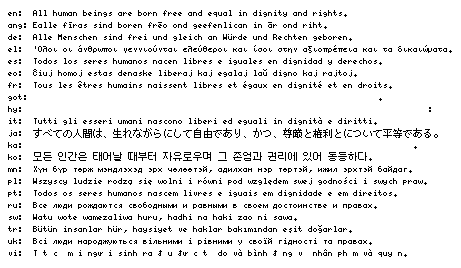
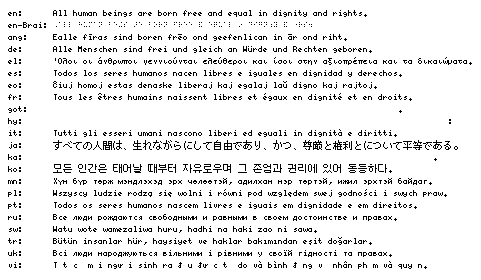
Update the examples

Changed region(s): [[0.0, 0.0299, 1.0, 0.9552], [0.9111, 0.4179, 0.9414, 0.4478]]

diff --git a/example/main.go b/example/main.go
@@ -41,27 +41,28 @@ var (
 func run() error {
 	// https://www.unicode.org/udhr/
 	// https://omniglot.com/udhr/
-	text := `en:  All human beings are born free and equal in dignity and rights.
-ang: Ealle fīras sind boren frēo ond geefenlican in ār ond riht.
-de:  Alle Menschen sind frei und gleich an Würde und Rechten geboren.
-el:  'Ολοι οι άνθρωποι γεννιούνται ελεύθεροι και ίσοι στην αξιοπρέπεια και τα δικαιώματα.
-es:  Todos los seres humanos nacen libres e iguales en dignidad y derechos.
-eo:  Ĉiuj homoj estas denaske liberaj kaj egalaj laŭ digno kaj rajtoj.
-fr:  Tous les êtres humains naissent libres et égaux en dignité et en droits.
-got: ᚨᛚᛚᚨᛁ ᛗᚨᚾᚾᚨ ᚠᚱᛖᛁᚺᚨᛚᛋ ᛃᚨᚺ ᛋᚨᛗᚨᛚᛖᛁᚲᛟ ᛁᚾ ᚹᚨᛁᚱᚦᛁᛞᚨᛁ ᛃᚨᚺ ᚱᚨᛁᚺᛏᛖᛁᛋ ᚹᚨᚢᚱᚦᚨᚾᛋ.
-hy:  Բոլոր մարդիկ ծնվում են ազատ ու հավասար՝ իրենց արժանապատվությամբ և իրավունքներով:
-it:  Tutti gli esseri umani nascono liberi ed eguali in dignità e diritti.
-ja:  すべての人間は、生れながらにして自由であり、かつ、尊厳と権利とについて平等である。
-ka:  ყველა ადამიანი იბადება თავისუფალი და თანასწორი თავისი ღირსებითა და უფლებებით.
-ko:  모든 인간은 태어날 때부터 자유로우며 그 존엄과 권리에 있어 동등하다.
-mn:  Хүн бүр төрж мэндлэхэд эрх чөлөөтэй, адилхан нэр төртэй, ижил эрхтэй байдаг.
-pl:  Wszyscy ludzie rodzą się wolni i równi pod względem swej godności i swych praw.
-pt:  Todos os seres humanos nascem livres e iguais em dignidade e em direitos.
-ru:  Все люди рождаются свободными и равными в своем достоинстве и правах.
-sw:  Watu wote wamezaliwa huru, hadhi na haki zao ni sawa.
-tr:  Bütün insanlar hür, haysiyet ve haklar bakımından eşit doğarlar.
-uk:  Всі люди народжуються вільними і рівними у своїй гідності та правах.
-vi:  Tất cả mọi người sinh ra đều được tự do và bình đẳng về nhân phẩm và quyền.
+	text := `en:      All human beings are born free and equal in dignity and rights.
+en-Brai: ⠠⠁⠇⠇ ⠓⠥⠍⠁⠝ ⠃⠑⠬⠎ ⠜⠑ ⠃⠕⠗⠝ ⠋⠗⠑⠑ ⠯ ⠑⠟⠥⠁⠇ ⠔ ⠙⠊⠛⠝⠰⠽ ⠯ ⠐⠗⠎⠲
+ang:     Ealle fīras sind boren frēo ond geefenlican in ār ond riht.
+de:      Alle Menschen sind frei und gleich an Würde und Rechten geboren.
+el:      'Ολοι οι άνθρωποι γεννιούνται ελεύθεροι και ίσοι στην αξιοπρέπεια και τα δικαιώματα.
+es:      Todos los seres humanos nacen libres e iguales en dignidad y derechos.
+eo:      Ĉiuj homoj estas denaske liberaj kaj egalaj laŭ digno kaj rajtoj.
+fr:      Tous les êtres humains naissent libres et égaux en dignité et en droits.
+got:     ᚨᛚᛚᚨᛁ ᛗᚨᚾᚾᚨ ᚠᚱᛖᛁᚺᚨᛚᛋ ᛃᚨᚺ ᛋᚨᛗᚨᛚᛖᛁᚲᛟ ᛁᚾ ᚹᚨᛁᚱᚦᛁᛞᚨᛁ ᛃᚨᚺ ᚱᚨᛁᚺᛏᛖᛁᛋ ᚹᚨᚢᚱᚦᚨᚾᛋ.
+hy:      Բոլոր մարդիկ ծնվում են ազատ ու հավասար՝ իրենց արժանապատվությամբ և իրավունքներով:
+it:      Tutti gli esseri umani nascono liberi ed eguali in dignità e diritti.
+ja:      すべての人間は、生れながらにして自由であり、かつ、尊厳と権利とについて平等である。
+ka:      ყველა ადამიანი იბადება თავისუფალი და თანასწორი თავისი ღირსებითა და უფლებებით.
+ko:      모든 인간은 태어날 때부터 자유로우며 그 존엄과 권리에 있어 동등하다.
+mn:      Хүн бүр төрж мэндлэхэд эрх чөлөөтэй, адилхан нэр төртэй, ижил эрхтэй байдаг.
+pl:      Wszyscy ludzie rodzą się wolni i równi pod względem swej godności i swych praw.
+pt:      Todos os seres humanos nascem livres e iguais em dignidade e em direitos.
+ru:      Все люди рождаются свободными и равными в своем достоинстве и правах.
+sw:      Watu wote wamezaliwa huru, hadhi na haki zao ni sawa.
+tr:      Bütün insanlar hür, haysiyet ve haklar bakımından eşit doğarlar.
+uk:      Всі люди народжуються вільними і рівними у своїй гідності та правах.
+vi:      Tất cả mọi người sinh ra đều được tự do và bình đẳng về nhân phẩm và quyền.
 `
 
 	if *flagTest {

diff --git a/internal/bitmap/bitmap.go b/internal/bitmap/bitmap.go
@@ -94,6 +94,9 @@ func NewFace(image *BinaryImage, dotX, dotY fixed.Int26_6, eastAsiaWide bool) *F
 }
 
 func (f *Face) runeWidth(r rune) int {
+	if r == 0x2648 {
+		println(width.LookupRune(r).Kind())
+	}
 	switch k := width.LookupRune(r).Kind(); k {
 	case width.Neutral:
 		return f.charHalfWidth()
